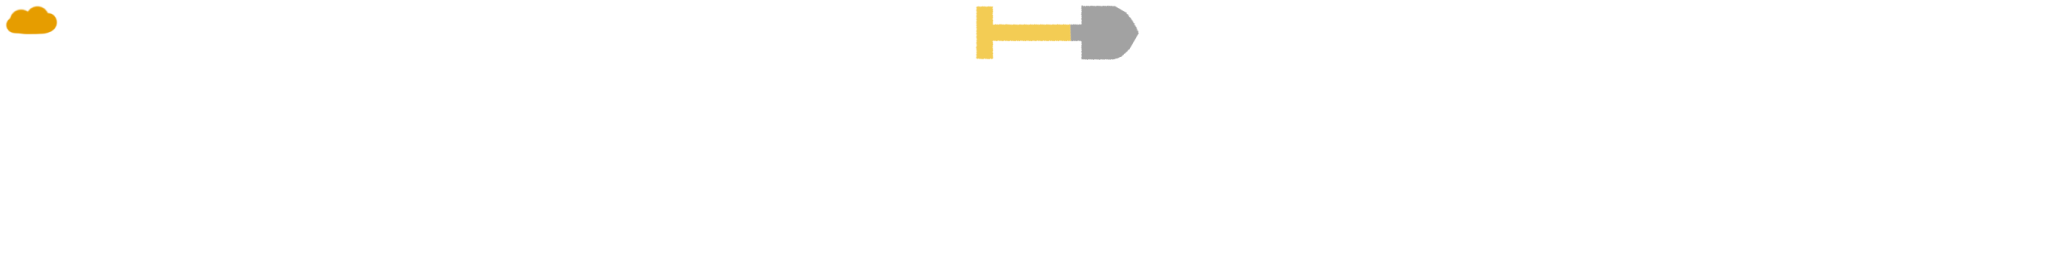
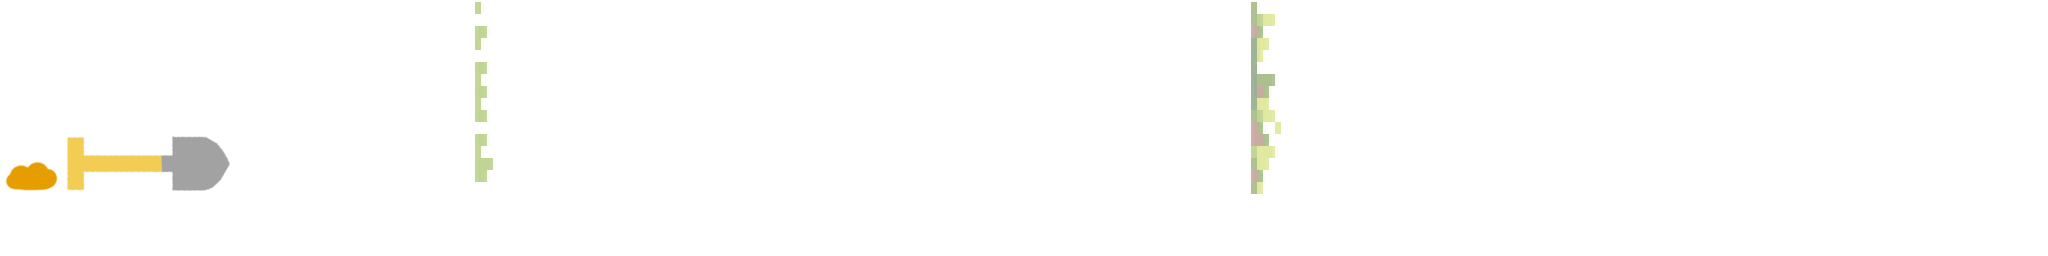
Move tile edge graphics to Spine instance

diff --git a/src/ms-cell.ts b/src/ms-cell.ts
@@ -20,7 +20,11 @@ enum AnimTrack {
 	Mine,
 	Flag,
 	Hover,
-	Dig
+	Dig,
+	EdgeL,
+	EdgeR,
+	EdgeU,
+	EdgeD
 }
 
 /**
@@ -34,12 +38,6 @@ export class MSCell extends Component<MSApp> {
 		return this.viewState.y;
 	}
 	private anim: Spine;
-	private edges: {
-		l: PIXI.Sprite;
-		r: PIXI.Sprite;
-		u: PIXI.Sprite;
-		d: PIXI.Sprite;
-	};
 	private adjacentText: GameText;
 	private viewState: MSCellState;
 	public state: MSCellState;
@@ -53,12 +51,6 @@ export class MSCell extends Component<MSApp> {
 
 		this.state = { ...CELL_STATE_DEFAULT };
 		this.viewState = { ...CELL_STATE_DEFAULT };
-		this.edges = {
-			l: this.createEdgeSprite(0),
-			r: this.createEdgeSprite(180),
-			u: this.createEdgeSprite(90),
-			d: this.createEdgeSprite(-90)
-		};
 
 		this.anim = new Spine(this.app.getSpine("grid-square"));
 		this.anim.stateData.setMix("flag-hidden", "flag-place-start", 0);
@@ -74,7 +66,6 @@ export class MSCell extends Component<MSApp> {
 
 		this.addChild(this.adjacentText);
 		this.addChild(this.anim);
-		this.addChild(...Object.values(this.edges));
 
 		this.hitArea = new PIXI.Rectangle(-REF_WIDTH / 2, -REF_HEIGHT / 2, REF_WIDTH, REF_HEIGHT);
 
@@ -102,6 +93,7 @@ export class MSCell extends Component<MSApp> {
 	 *
 	 */
 	public reset() {
+		// TODO: Clear tracks instead of hidden states?
 		let coverType = (this.state.x + this.state.y) % 2 === 0 ? "even" : "odd";
 		this.anim.state.setAnimation(AnimTrack.FillColor, "fill-" + coverType, false);
 		this.anim.state.setAnimation(AnimTrack.Flag, "flag-hidden", false);
@@ -109,6 +101,20 @@ export class MSCell extends Component<MSApp> {
 		this.anim.state.setAnimation(AnimTrack.Feedback, "feedback-hidden", false);
 		this.anim.state.setAnimation(AnimTrack.Hover, "hover-hidden", false);
 		this.anim.state.setAnimation(AnimTrack.Dig, "dig-hidden", false);
+		this.anim.state.setAnimation(AnimTrack.EdgeL, "edge-l-hidden", false);
+		this.anim.state.setAnimation(AnimTrack.EdgeR, "edge-r-hidden", false);
+		this.anim.state.setAnimation(AnimTrack.EdgeU, "edge-u-hidden", false);
+		this.anim.state.setAnimation(AnimTrack.EdgeD, "edge-d-hidden", false);
+	}
+
+	/**
+	 *
+	 * @param edge
+	 */
+	public setEdgeVisible(edge: "l" | "r" | "u" | "d", visible: boolean) {
+		let stateName = "edge-" + edge + "-" + (visible ? "visible" : "hidden");
+		let key = ("Edge" + edge.toUpperCase()) as keyof typeof AnimTrack;
+		this.anim.state.setAnimation(AnimTrack[key], stateName, false);
 	}
 
 	/**
@@ -129,54 +135,40 @@ export class MSCell extends Component<MSApp> {
 	/**
 	 *
 	 */
-	private createEdgeSprite(angle = 0): PIXI.Sprite {
-		let texture = this.app.getFrame("tiles", "front-edge-0");
-		let sprite = new PIXI.Sprite(texture);
-		sprite.alpha = 0.5;
-		sprite.anchor.set(0.5);
-		sprite.visible = false;
-		sprite.width = REF_WIDTH;
-		sprite.height = REF_HEIGHT;
-		sprite.angle = angle;
-		return sprite;
-	}
-
-	/**
-	 *
-	 */
 	public updateEdgeSprites() {
-		Object.values(this.edges).forEach((el) => {
-			let frameName = this.viewState.covered ? "front-edge-0" : "back-edge-0";
-			el.texture = this.app.getFrame("tiles", frameName);
-		});
+		this.anim.setSkinByName(this.viewState.covered ? "front" : "back");
 
 		if (this.ix - 1 > -1) {
 			let l = this.app.getCellView(this.ix - 1, this.iy);
-			this.edges.l.visible = l.viewState.covered !== this.viewState.covered;
-			l.edges.r.visible = l.viewState.covered !== this.viewState.covered;
+			let visible = l.viewState.covered !== this.viewState.covered;
+			this.setEdgeVisible("l", visible);
+			l.setEdgeVisible("r", visible);
 		} else {
-			this.edges.l.visible = true;
+			this.setEdgeVisible("l", true);
 		}
 		if (this.ix + 1 < this.app.state.width) {
 			let r = this.app.getCellView(this.ix + 1, this.iy);
-			this.edges.r.visible = r.viewState.covered !== this.viewState.covered;
-			r.edges.l.visible = r.viewState.covered !== this.viewState.covered;
+			let visible = r.viewState.covered !== this.viewState.covered;
+			this.setEdgeVisible("r", visible);
+			r.setEdgeVisible("l", visible);
 		} else {
-			this.edges.r.visible = true;
+			this.setEdgeVisible("r", true);
 		}
 		if (this.iy - 1 > -1) {
 			let u = this.app.getCellView(this.ix, this.iy - 1);
-			this.edges.u.visible = u.viewState.covered !== this.viewState.covered;
-			u.edges.d.visible = u.viewState.covered !== this.viewState.covered;
+			let visible = u.viewState.covered !== this.viewState.covered;
+			this.setEdgeVisible("u", visible);
+			u.setEdgeVisible("d", visible);
 		} else {
-			this.edges.u.visible = true;
+			this.setEdgeVisible("u", true);
 		}
 		if (this.iy + 1 < this.app.state.height) {
 			let d = this.app.getCellView(this.ix, this.iy + 1);
-			this.edges.d.visible = d.viewState.covered !== this.viewState.covered;
-			d.edges.u.visible = d.viewState.covered !== this.viewState.covered;
+			let visible = d.viewState.covered !== this.viewState.covered;
+			this.setEdgeVisible("d", visible);
+			d.setEdgeVisible("u", visible);
 		} else {
-			this.edges.d.visible = true;
+			this.setEdgeVisible("d", true);
 		}
 	}
 

diff --git a/src/common/spine.ts b/src/common/spine.ts
@@ -1,4 +1,9 @@
 /**
  * This serves as an alias to the namespaced Spine class.
  */
-export class Spine extends PIXI.spine.Spine {}
+export class Spine extends PIXI.spine.Spine {
+	public setSkinByName(skinName: string) {
+		(this.skeleton.setSkin as any)(null);
+		this.skeleton.setSkinByName(skinName);
+	}
+}
